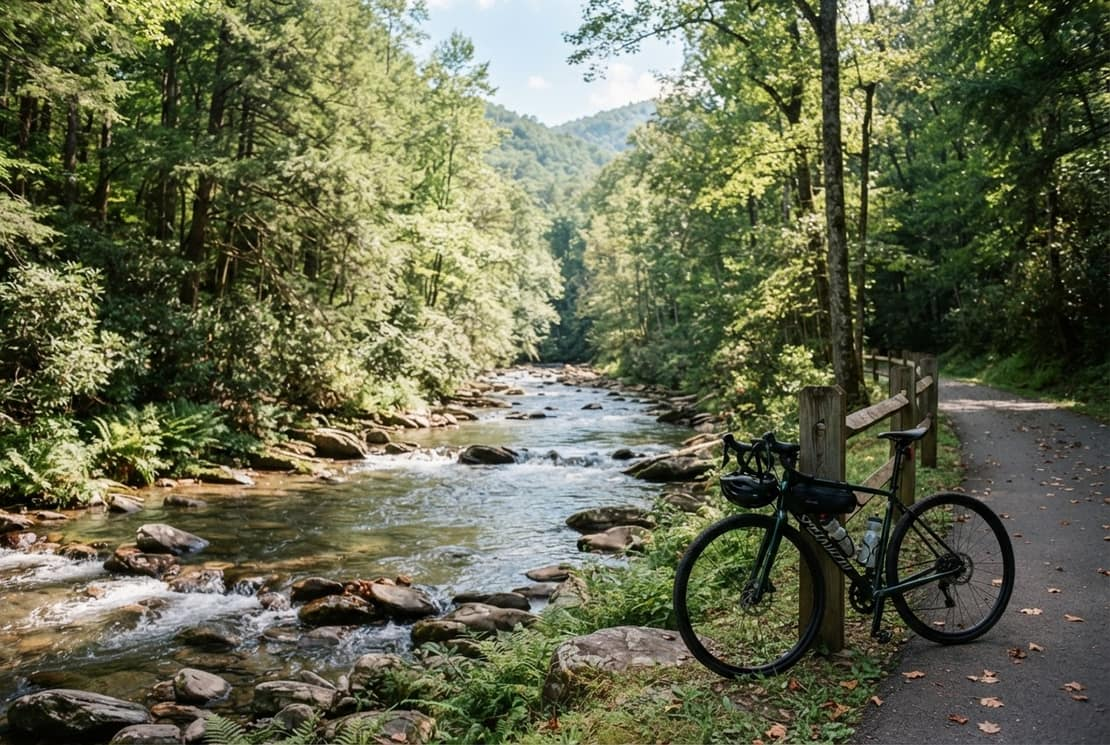
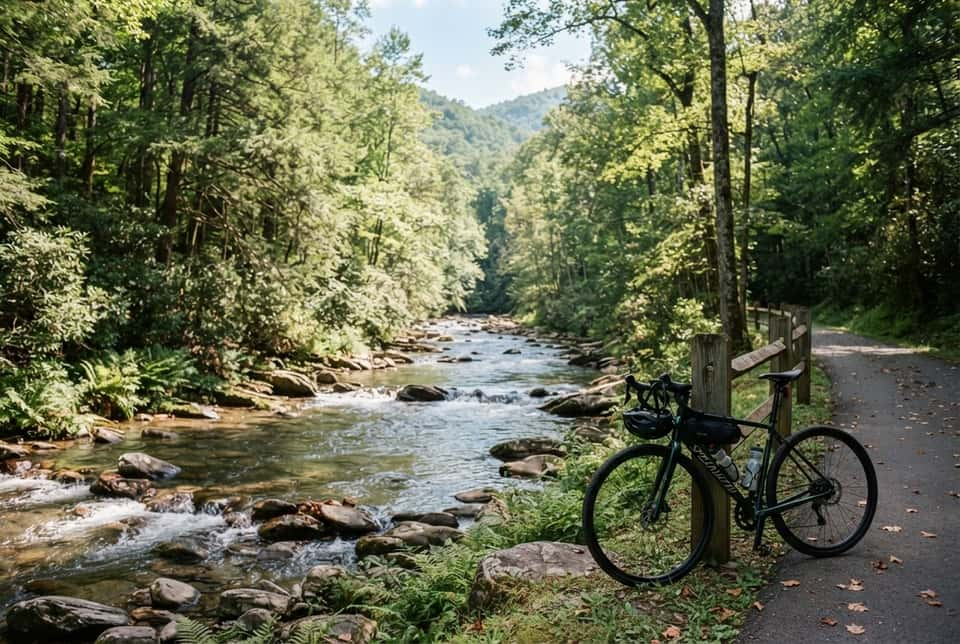
Re-encode the adventure photos at 960px
1,221 KB to 772 KB. The widest these are ever drawn is the detail hero
at 1206px on a 3x phone; compared at a 100% crop, 960 q60 is not
distinguishable from the original at arm's length.

Re-encoded from the originals recovered out of git history rather than
from the committed files, so the JPEG loss does not compound.

Total iOS export is now 3.9 MB, from 7.9 MB before this round of work.

Claude-Session: https://claude.ai/code/session_01DmMnkmgvSeCbGQGQgveYYt

diff --git a/docs/runbook.md b/docs/runbook.md
@@ -48,9 +48,14 @@ much easier to read locally.
 
 ## Adding a photo or an icon
 
-Adventure photos are re-encoded to 1110px wide at quality 72 before they are
-committed — the originals were 1264px and roughly three times the size, for
-no visible difference on a phone.
+Adventure photos are re-encoded to **960px wide at quality 60** before they
+are committed — the originals were 1264px and four times the size. The
+widest they are ever drawn is the detail-screen hero, 402pt full-bleed,
+which is 1206px on a 3x phone; at a 100% crop the difference against the
+original is not visible at arm's length.
+
+Re-encode from the original file, never from the committed one, or the JPEG
+loss compounds each time.
 
 Icons come from `lucide-react-native` and must be imported by their **deep
 path**, never from the package root:
